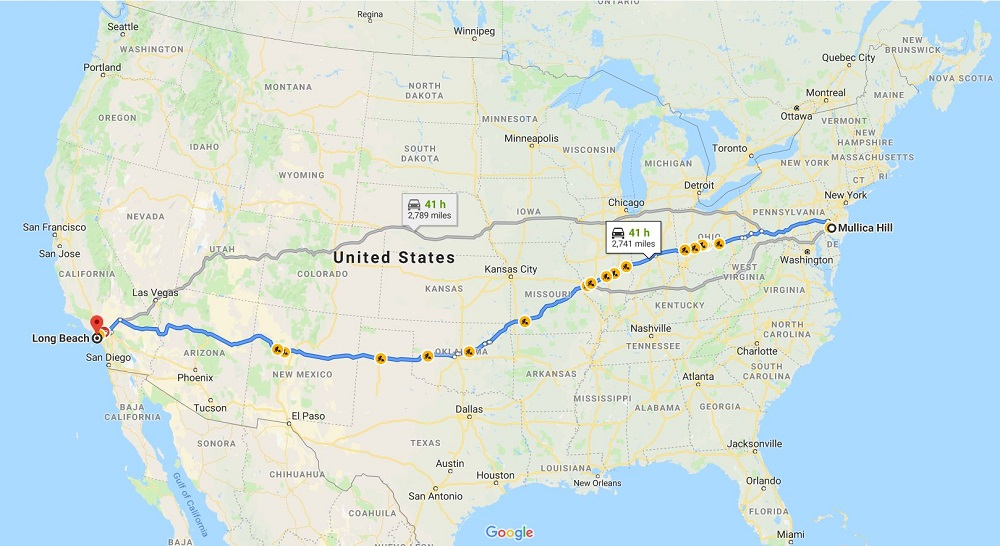
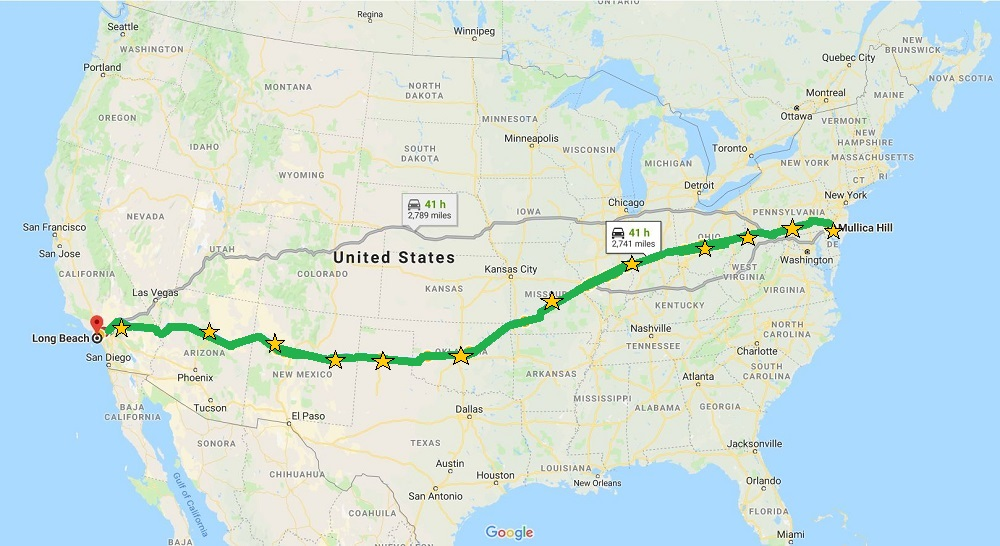
fancy upgrade to the map image for roadtrip blog

Changed region(s): [[0.093, 0.3736, 0.837, 0.685]]

diff --git a/ClientApp/src/components/roadtrip/ImageMap.jsx b/ClientApp/src/components/roadtrip/ImageMap.jsx
@@ -31,7 +31,7 @@ const ImageMap = props => {
 
     const content =
         <div className={classes.root}>
-            <h4>{`Click on locations along the highlighted route for stories!`}</h4>
+            <h4>{`Click any of the stars along the route for stories!`}</h4>
             <img src={ImageMapJpg}
                 style={{ width: 1000, height: 546 }}
                 alt="Road Trip Map With Links"
